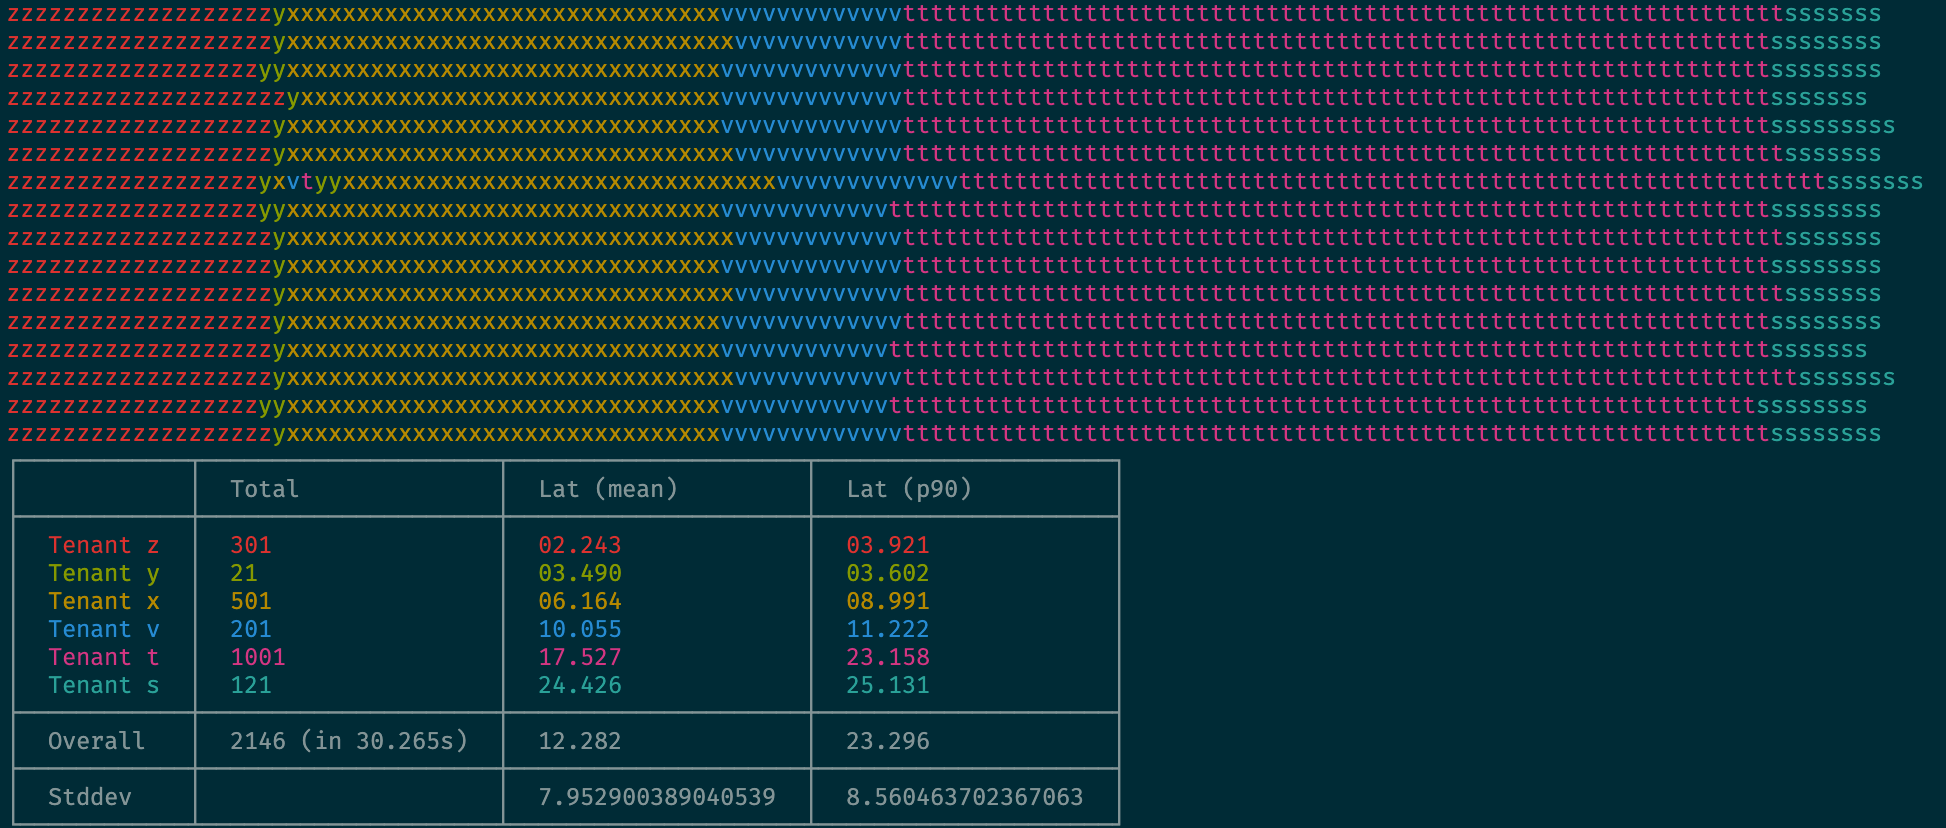
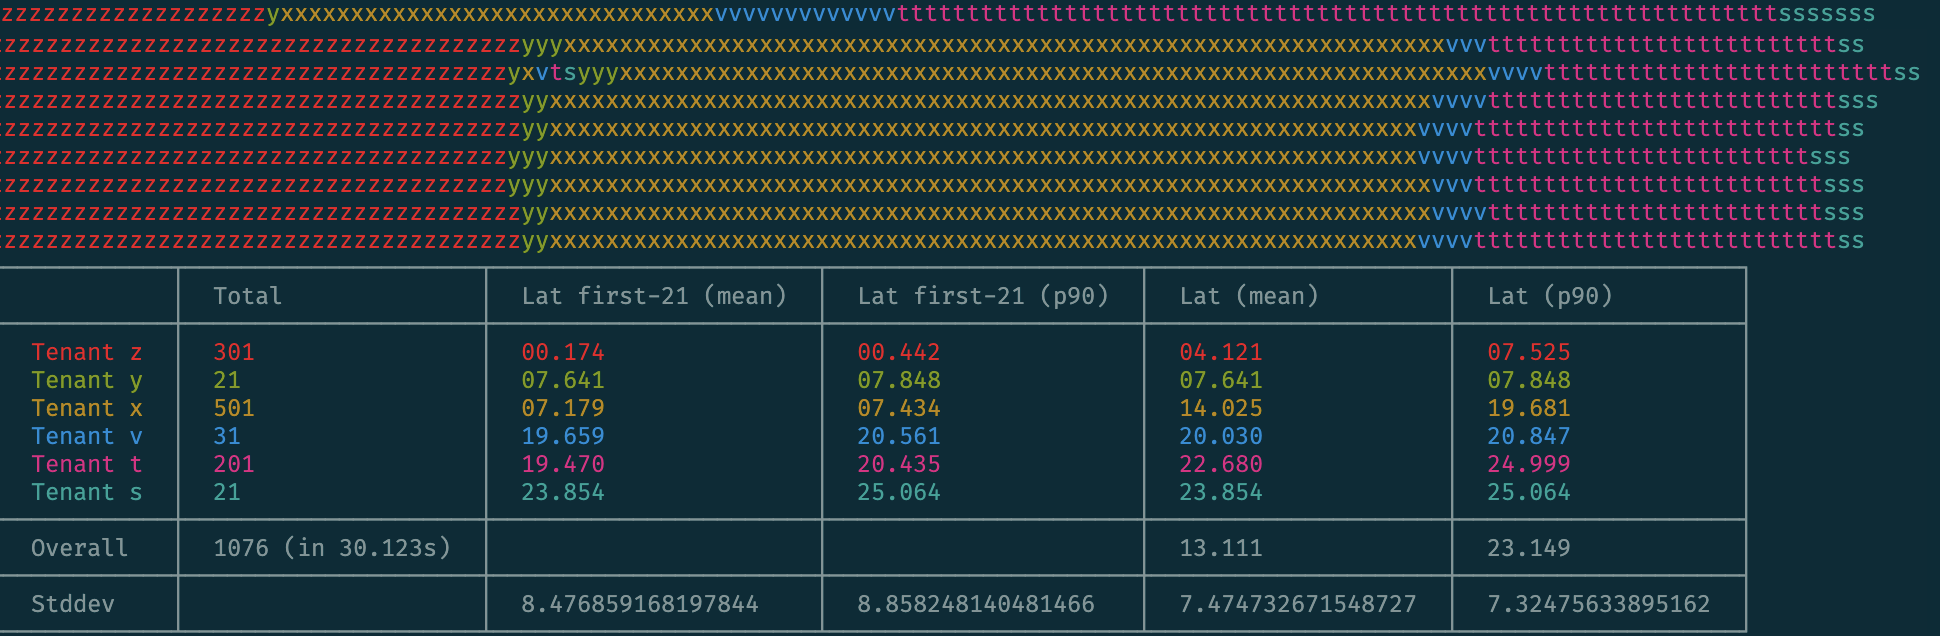
Move stats tracking to Worker; add head stats; upd Readme

Changed region(s): [[0.0, 0.0, 0.9897, 1.0]]

diff --git a/stats.rb b/stats.rb
@@ -1,14 +1,21 @@
 # frozen_string_literal: true
 
-require "bundler/inline"
+begin
+  require "tty-cursor"
+  require "tty-screen"
+  require "tty-table"
+  require "pastel"
+rescue LoadError
+  require "bundler/inline"
 
-gemfile(true, quiet: true) do
-  source "https://rubygems.org"
+  gemfile(true, quiet: true) do
+    source "https://rubygems.org"
 
-  gem "tty-cursor"
-  gem "tty-screen"
-  gem "tty-table"
-  gem "pastel"
+    gem "tty-cursor"
+    gem "tty-screen"
+    gem "tty-table"
+    gem "pastel"
+  end
 end
 
 # Pastel is not Ractor-ready,
@@ -101,13 +108,17 @@ module Stats
 
     using(Module.new do
       refine Array do
+        def sorted
+          @sorted ||= sort
+        end
+
         def mean
           @mean ||= (sum.to_f / size)
         end
 
         # Requires sorted array
         def p90
-          @p90 ||= self[(0.9*size).to_i]
+          @p90 ||= sorted[(0.9*size).to_i]
         end
 
         def stddev
@@ -141,20 +152,40 @@ module Stats
         tenants[item[4]] << lat
       end
 
-      all_lats.sort!
-      tenants.each_value(&:sort!)
-
       all_mean = all_lats.mean
+      head = tenants.values.map(&:size).min
 
-      table = TTY::Table.new(header: ["", "Total", "Lat (mean)", "Lat (p90)"])
+      table = TTY::Table.new(header: ["", "Total", "Lat first-#{head} (mean)", "Lat first-#{head} (p90)", "Lat (mean)", "Lat (p90)"])
 
       tenants.each do |k, lats|
         color = AVAILABLE_COLORS[k]
-        table << ["Tenant #{TENANT_NAMES[k]}", lats.size, lats.mean.duration, lats.p90.duration].map { _1.to_s.color(color) }
+        table << [
+          "Tenant #{TENANT_NAMES[k]}",
+          lats.size,
+          lats.take(head).mean.duration,
+          lats.take(head).p90.duration,
+          lats.mean.duration,
+          lats.p90.duration,
+        ].map { _1.to_s.color(color) }
       end
 
-      table << ["Overall", "#{data.size} (in #{(max_end - min_start).duration}s)", all_mean.duration, all_lats.p90.duration]
-      table << ["Stddev", "", tenants.values.map(&:mean).stddev, tenants.values.map(&:p90).stddev]
+      table << [
+        "Overall",
+        "#{data.size} (in #{(max_end - min_start).duration}s)",
+        "",
+        "",
+        all_mean.duration,
+        all_lats.p90.duration
+      ]
+
+      table << [
+        "Stddev",
+        "",
+        tenants.values.map { _1.take(head).mean }.stddev,
+        tenants.values.map { _1.take(head).p90 }.stddev,
+        tenants.values.map(&:mean).stddev,
+        tenants.values.map(&:p90).stddev
+      ]
 
       rendered = table.render(:unicode, padding: [0, 2]) do |renderer|
         renderer.border.separator = [0, tenants.size, tenants.size + 1]

diff --git a/raqueue.rb b/raqueue.rb
@@ -134,6 +134,8 @@ module Raqueue
       @workers = size.times.map do |num|
         Ractor.new(pipe, stats, num, name, node, name: "#{inspect} ##{num}") do |pipe, stats, num, queue, node|
           Ractor.current[:node] = node
+          Ractor.current[:worker_id] = num
+          Ractor.current[:stats] = stats
 
           loop do
             job = pipe.take
@@ -145,9 +147,7 @@ module Raqueue
             begin
               worker = Object.const_get(job[:worker_class])
 
-              worker.new.perform(job[:payload])
-
-              stats.send([queue, num, Utils.now, job[:payload][:start], job[:payload][:tenant]], move: true) if stats
+              worker.new.run(job[:payload])
             rescue Exception => e
               warn "Failed to execute job #{job}: #{e.message}"
             end
@@ -188,11 +188,28 @@ module Raqueue
       def perform_async(payload = {}, queue: :default)
         node = Ractor.current[:node] || Raqueue.node
         payload[:start] ||= Utils.now
+        payload[:queue] = queue
         node.enqueue queue, self.name, payload
       end
     end
 
+    def run(payload)
+      before_perform(payload)
+      perform(payload)
+    end
+
     def perform(payload = {})
+    end
+
+    def before_perform(payload = {})
+      stats = Ractor.current[:stats]
+      stats.send([
+        payload[:queue],
+        Ractor.current[:worker_id],
+        Utils.now,
+        payload[:start],
+        payload[:tenant]
+      ], move: true) if stats
     end
   end
 end

diff --git a/app.rb b/app.rb
@@ -34,8 +34,8 @@ module Config
     end
   end
 
-  self.concurrency = 4
-  self.scales = [1000, 20, 10]
+  self.concurrency = 8
+  self.scales = [300, 20, 500, 30, 200, 20]
 end
 
 require_relative "./raqueue"

diff --git a/README.md b/README.md
@@ -9,14 +9,24 @@ The problem of _fair_ background jobs processing usually occurs in multi-tenant 
 There are multiple ways to mitigate this problem and we research them in this repo.
 
 Since this is a pure academical research, we avoid using any specific _executor_. Instead, we use Ruby 3 Ractors for concurrent jobs execution.
+However, we assume that a background job executor has a fixed predefined set of queues (like Sidekiq); thus, we cannot use a queue-per-tenant approach, we need to introduce the fairness at the client-side.
 
 ## The method
 
-TBD
+We perform the following experiment for each strategy.
 
-## Strategies
+Given N numbers each representing the number of jobs to enqueue per tenant, we enqueue N background jobs (_bulk jobs_).
+Each bulk jobs enqueues N[i] jobs.
 
-TBD
+Then we wait for all jobs to complete.
+
+We measure the latency for each executed job and calculate the following statistical data:
+
+- Mean and p90 latency per tenant.
+- Mean and p90 latency of the first K jobs (_head_) per tenant, where K = min(N[i]).
+- Standard deviation for the calculated means and percentiles.
+
+The most important metrics is a standard deviation of the _heads_ means/percentiles. Why so? We're interested in minimizing delays caused by large tenants. In other words, we want jobs from all tenants to be executed at the same _speed_. On the other hand, it's OK for latency to grow if we enqueue thousands of jobs, but that should not affect those who enqueue dozens.
 
 ## Usage
 
@@ -26,11 +36,7 @@ Run a specific strategy emulation like this:
 ruby baseline.rb -c 16 -n 300,20,500,200,1000,120
 ```
 
-You will see a visualization of executed jobs (each color represents a particular tenant) and the final statistics information:
-
-<p align="center">
-    <img src="./example.png" alt="Example output" width="738">
-</p>
+You will see a visualization of executed jobs (each color represents a particular tenant) and the final statistics information (see below).
 
 To learn about available CLI options use `-h` switch:
 
@@ -41,6 +47,20 @@ Baseline: just a queue, totally unfair
     -c, --concurrency=CONCURRENCY    The concurrency factor (depends on implementation)
 ```
 
+## Strategies
+
+### Baseline
+
+This is the default behavior: do not care about the fairness.
+
+<p align="center">
+    <img src="./example.png" alt="Example output" width="738">
+</p>
+
+### Random shards
+
+This strategy is described [here][sidekiq-shards].
+
 ## Resources
 
 - [The State of Background Jobs in 2019][kirs-post] by Kir Shatrov
@@ -48,3 +68,4 @@ Baseline: just a queue, totally unfair
 
 [kirs-post]: https://kirshatrov.com/2019/01/03/state-of-background-jobs/
 [Fairway]: https://github.com/customerio/fairway
+[sidekiq-shards]: https://www.mikeperham.com/2019/12/17/workload-isolation-with-queue-sharding/
